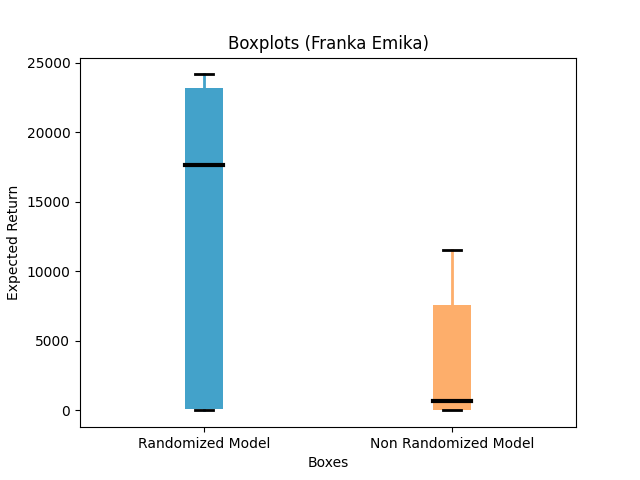
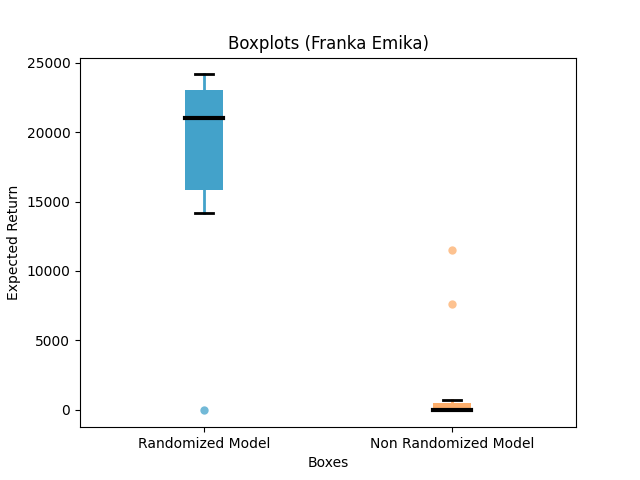
Final changes

diff --git a/src/Franka Environment/franka_sim2real.py b/src/Franka Environment/franka_sim2real.py
@@ -530,8 +530,8 @@ reward_list_non = []
 box_reward_list = []
 box_reward_list_non = []
 
-# Run 5 times
-for i in range(5):
+# Run 10 times
+for i in range(10):
 
     # Instantiate the simulated environment with domain randomization
     viewer, randomization = False, True
